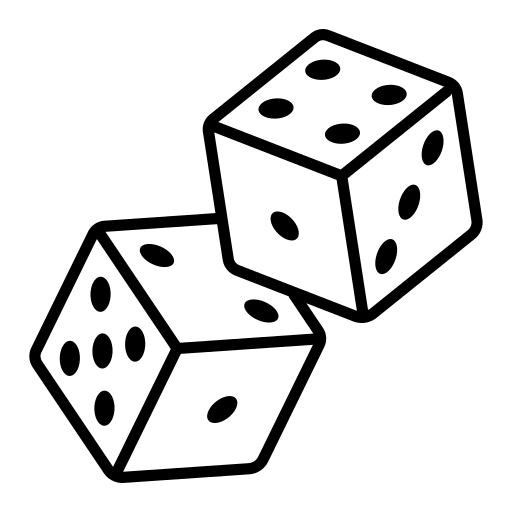
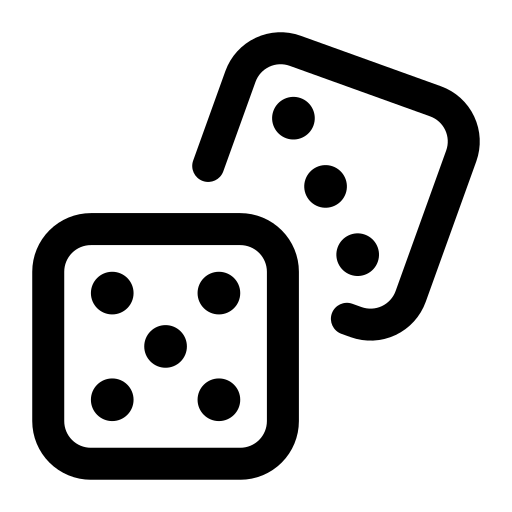
fixed quiz

Changed region(s): [[0.0312, 0.0312, 0.9688, 0.9688], [0.375, 0.7188, 0.4688, 0.8438]]

diff --git a/ReactPathToMath/src/components/Main/Games/GameCube.jsx b/ReactPathToMath/src/components/Main/Games/GameCube.jsx
@@ -1,6 +1,6 @@
 import { React } from 'react';
 import help_icon from '../../../assets/Images/cube_game/how_to_play.png';
-import gameIcon from '../../../assets/Images/cube_gmae/diceIcon.png'
+import gameIcon from '../../../assets/Images/cube_game/diceIcon.png'
 import Cubes from './Cubes.jsx';
 import { useParams } from 'react-router-dom';
 import { useState } from 'react';
@@ -24,19 +24,25 @@ const GameCube = () => {
     const updateQuiz = useUpdateQuiz();
 
     const generate_question = () => {
-        let sum = Math.floor(Math.random() * ((grade) * 2 + gameLevel + 5)) + 6;
-        let cubes = [];
-        cubes = generate_cubes(sum);
+        const numericGrade = parseInt(grade); // ensure number
+        const baseSum = 6 + gameLevel + numericGrade * 2; // scale with grade and level
+        const sum = Math.floor(Math.random() * baseSum) + 6;
+
+        const cubes = generate_cubes(sum, numericGrade, gameLevel);
         return { cubes, sum };
-    }
+    };
 
     // Generate randome cubes values
     const generate_cubes = (sum) => {
+        const minCubes = 4;
+        const maxCubes = 6 + Math.floor(level / 3) + Math.floor(grade / 2); // scale cubes count
+        const cubeCount = Math.min(maxCubes, 12); // limit to 12 max
+
         let validCubes = false;
         let cubes = [];
         while (!validCubes) {
             cubes = []
-            for (let i = 0; i <3+ grade * 2; i++) {
+            for (let i = 0; i < cubeCount ; i++) {
                 // Generate a random cube value between 1 and 6
                 cubes.push(Math.floor(Math.random() * 6) + 1);
                 validCubes = isValidCubes(cubes, sum);
@@ -196,11 +202,12 @@ const GameCube = () => {
     }
     
     return (        
-        <GameContainer gameName="Cubes Game" gameSubject={gameSubject} gameLevel={grade}>
-            <div className="border-8 border-white bg-blue-100 rounded-lg p-4 shadow-lg relative">
+        <GameContainer gameName="Cubes Game" gameSubject={gameSubject} gameLevel={level} icon ={gameIcon}  >
+            <div className="mt-5 border-8 border-white bg-gradient-to-br from-blue-100 via-white to-blue-200
+            rounded-3xl p-6 shadow-2xl relative transition-all duration-300 w-full max-w-xl mx-auto">
                 <div className='text-sm group inline-block absolute top-4 left-4'>
                     {/* How to play button */}
-                    <button className="group items-center flex gap-2 bg-purple-200 px-4 py-2 rounded-lg hover:bg-purple-300 transition-colors cursor-pointer">
+                    <button className="group items-center flex gap-2 bg-purple-200 shadow-2xl px-4 py-2 rounded-lg hover:bg-purple-300 transition-colors cursor-pointer">
                         <img src={help_icon} alt="How to play" className="h-5 w-5"/>
                         How to play
                     </button>
@@ -210,8 +217,8 @@ const GameCube = () => {
                     </div>
                 </div>
                 {gameFinished ? (
-                    <div className="text-2xl flex flex-col items-center justify-center min-h-screen text-center">
-                        <h2 className="text-3xl font-semibold text-green-600 mb-4">
+                    <div className="text-2xl flex flex-col items-center justify-center h-80 text-center ">
+                        <h2 className="text-3xl font-semibold text-green-600 mb-4 mt-10">
                             {feedbackMessage}
                         </h2>
                         {success ? "Level up!":" Try again next time!"}
@@ -249,9 +256,9 @@ const GameCube = () => {
                                     onClick={() => toggleCube(index)}
                                     className={
                                         selected.includes(index)
-                                            ? "outline-3 outline-green-400"
+                                            ? "outline-4 outline-green-400"
                                             : solution.includes(index)
-                                                ? "outline-3 outline-red-400"
+                                                ? "outline-4 outline-red-400"
                                                 : "bg-gray-100"
                                     }
                                 />
@@ -265,17 +272,16 @@ const GameCube = () => {
                             {feedbackMessage}
                         </div>
 
-                        <div>
+                        <div className="flex justify-center gap-4 mt-6">
                             <button
-                                className="bg-blue-400 hover:cursor-pointer text-white mt-4 px-4 py-2 rounded-lg"
+                                className="bg-blue-400 hover:cursor-pointer text-white px-4 py-2 rounded-lg"
                                 onClick={() => check_answer(selected)}
                             >
                                 Check
                             </button>
 
                             <button
-                                className={`bg-gray-400 text-white hover:cursor-pointer px-4 py-2 rounded-lg mt-5 ml-3 ${next ? "opacity-100" : "opacity-0"
-                                    }`}
+                                className={`bg-gray-400 text-white hover:cursor-pointer px-4 py-2 rounded-lg ${next ? "opacity-100" : "opacity-0"}`}
                                 onClick={() => renderGame()}
                             >
                                 {next}

diff --git a/ReactPathToMath/src/components/Main/Games/GameContainer.jsx b/ReactPathToMath/src/components/Main/Games/GameContainer.jsx
@@ -66,7 +66,7 @@ function GameContainer({ gameName, gameSubject, children, icon }) {
                         {gameSubject}
                     </span>
                     <span className="bg-green-300 text-green-900 font-semibold px-4 py-1 rounded-full shadow-md select-none">
-                        {`Grade ${gameLevel}`}
+                        {`Level ${gameLevel}`}
                     </span>
                 </div>
             </div>
